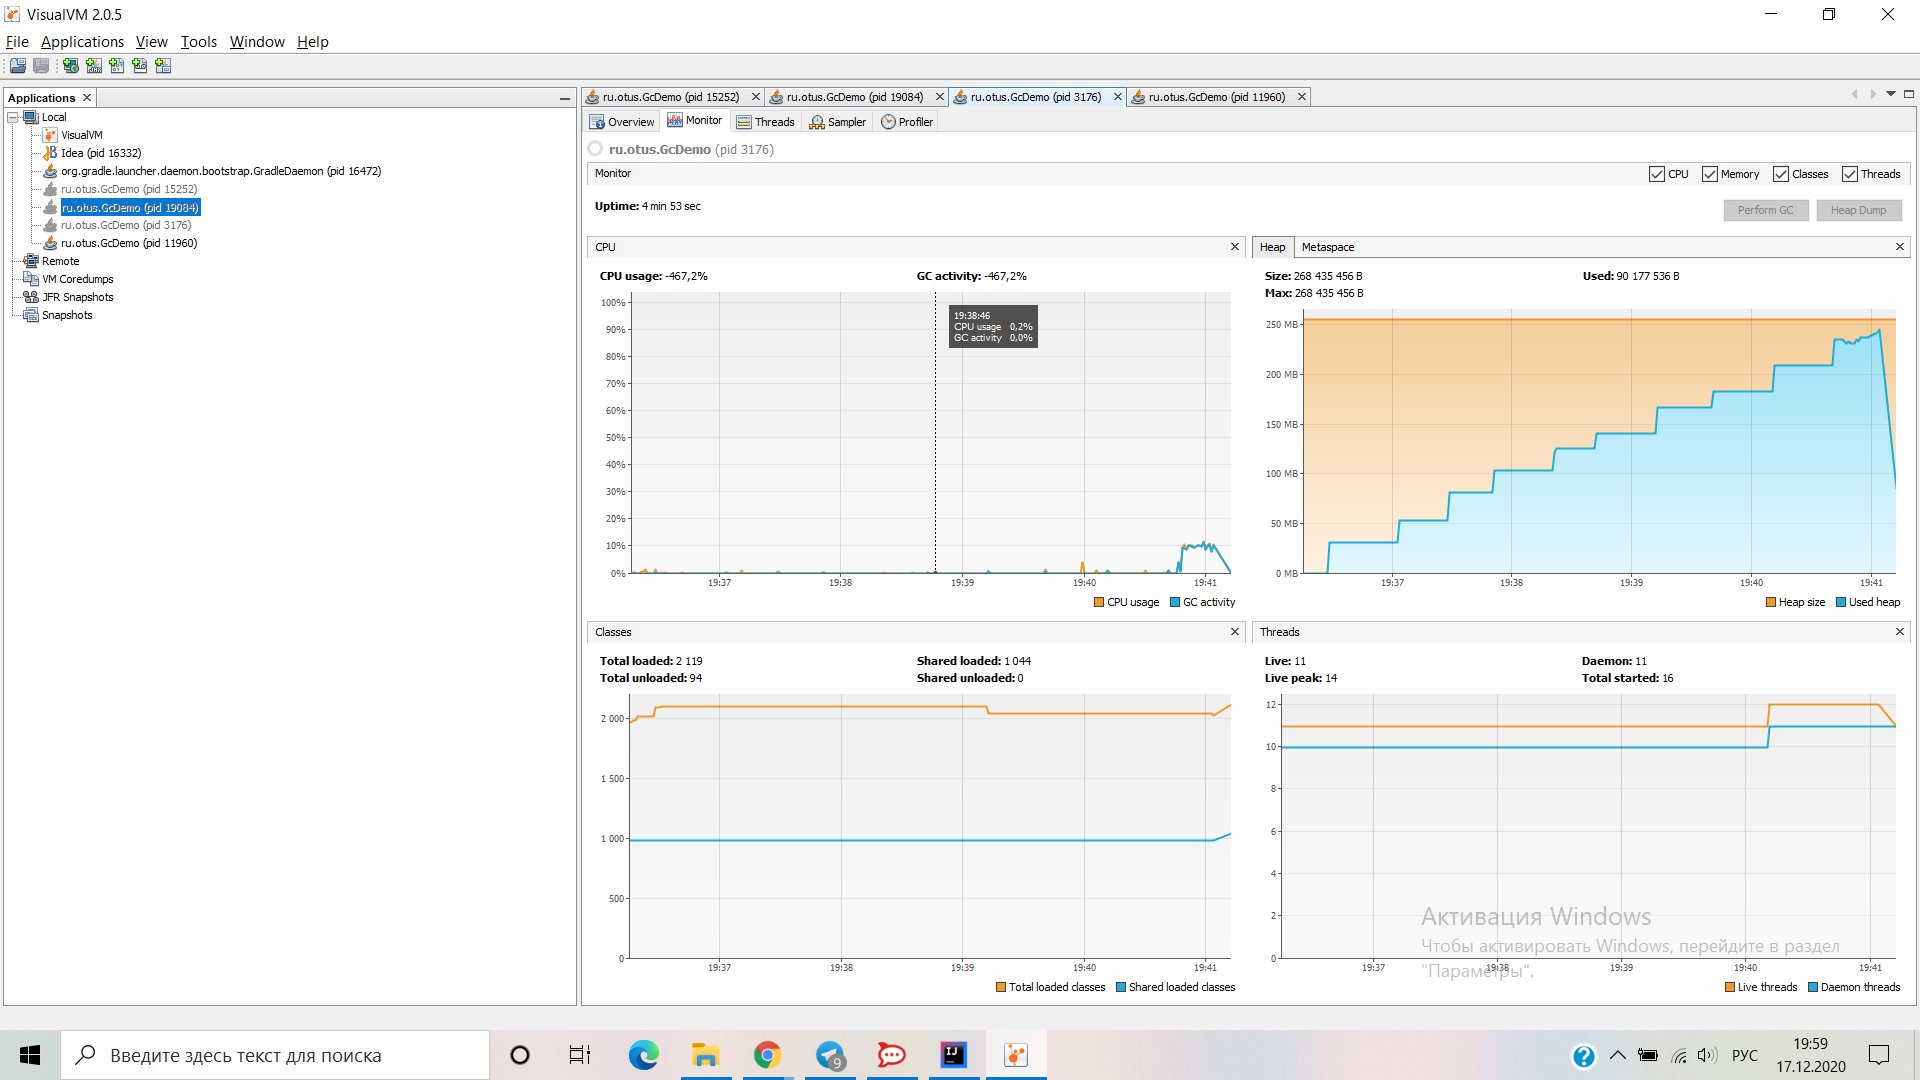
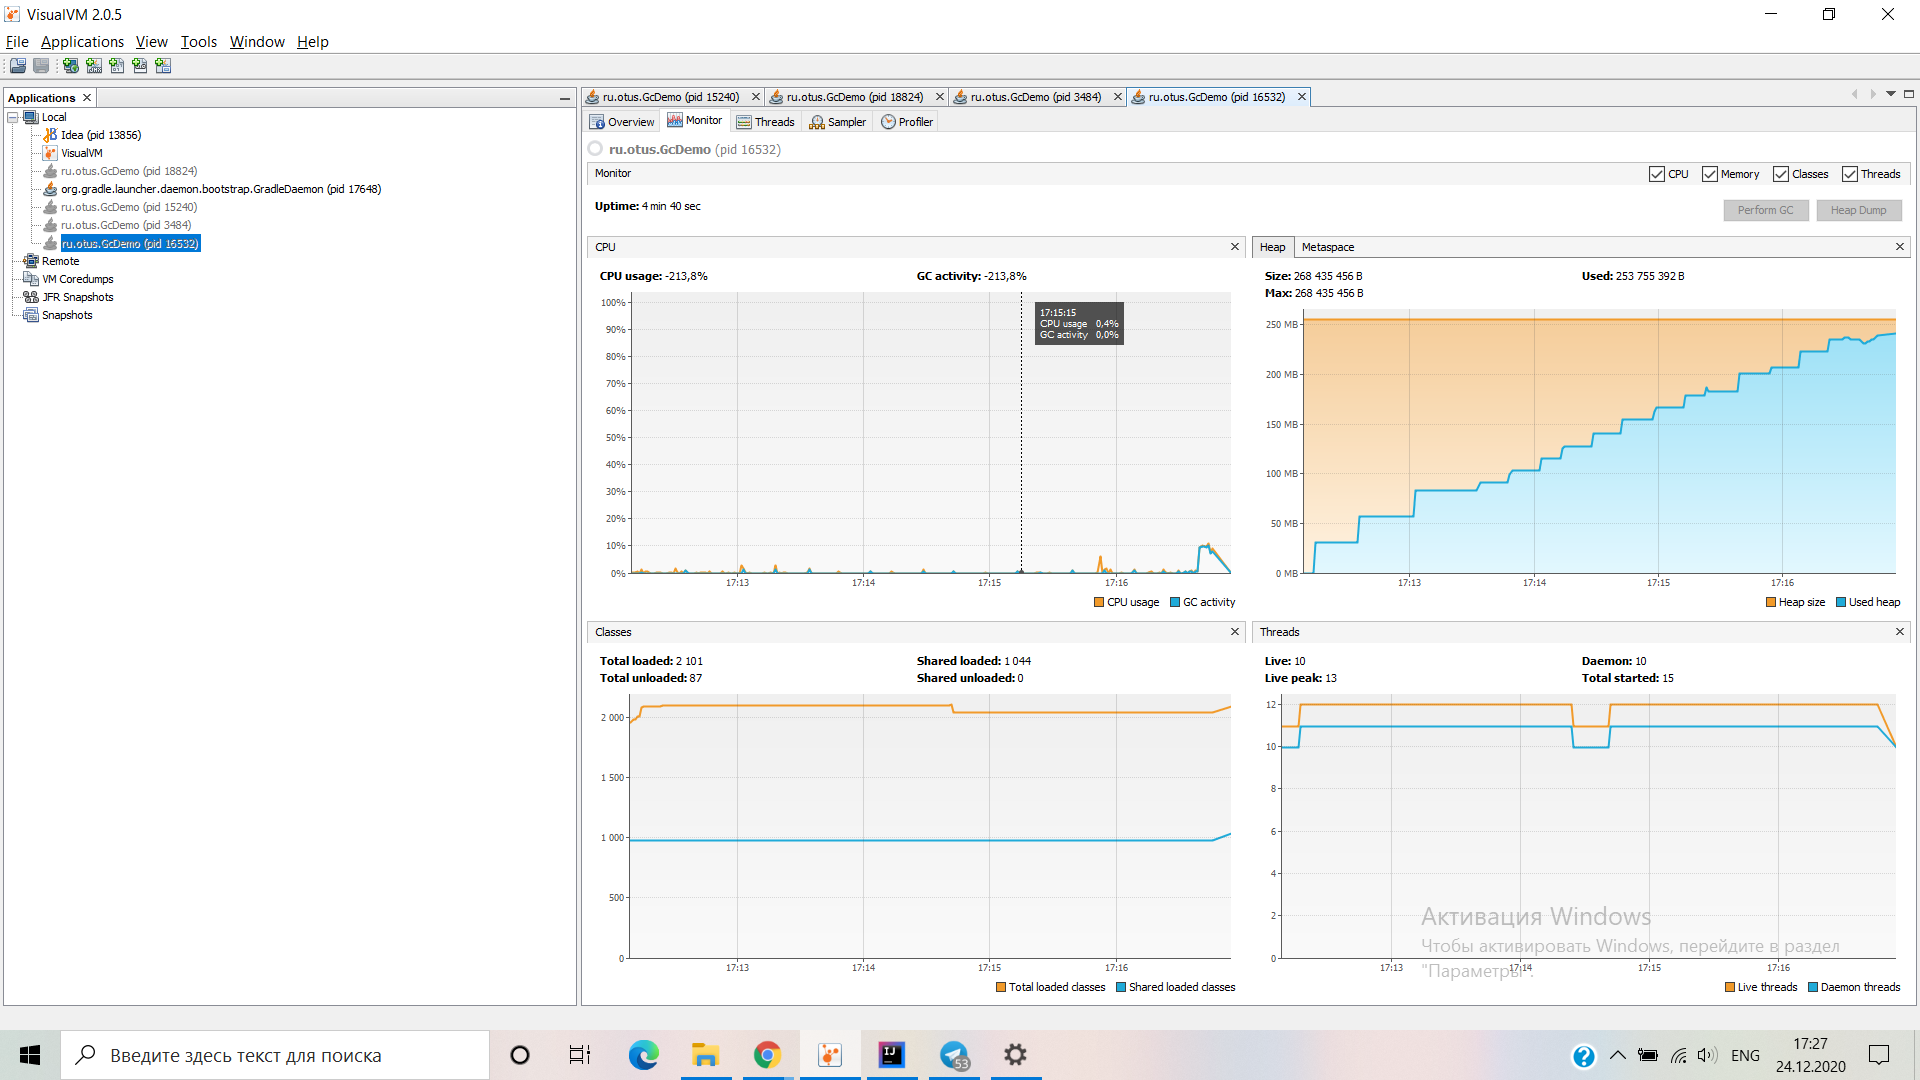
правки

diff --git a/hw-gc-04/src/main/java/ru/otus/generator/JVMErrorGenerator.java b/hw-gc-04/src/main/java/ru/otus/generator/JVMErrorGenerator.java
@@ -1,15 +1,11 @@
 package ru.otus.generator;
 
-import lombok.SneakyThrows;
-import lombok.val;
-import ru.otus.GcDemo;
 import ru.otus.repository.DIYArrayList;
 
 import java.util.List;
 import java.util.Map;
 import java.util.Random;
 import java.util.UUID;
-import java.util.logging.Logger;
 
 /**
  * JVMErrorGenerator.
@@ -42,12 +38,16 @@ public class JVMErrorGenerator {
     private static final String G1_WITH_LOW_MEMORY = "G1 with low memory";
     private static final String ZGC_WITH_LOW_MEMORY = "ZGC with low memory";
     private static final String DEFAULT_ZGC = "ZGC default";
+    private static final String PARALLEL = "PARALLEL default";
+    private static final String PARALLEL_WITH_LOW_MEMORY = "PARALLEL with low memory";
 
-    private static final Map<String, int[]> configure = Map.
-            of(DEFAULT_G1, new int[]{2450, 1},
-            G1_WITH_LOW_MEMORY, new int[]{290, 1},
-            ZGC_WITH_LOW_MEMORY, new int[]{110, 1},
-            DEFAULT_ZGC, new int[]{1000, 1});
+    private static final Map<String, Integer> configure = Map.
+            of(DEFAULT_G1, 7700,
+            G1_WITH_LOW_MEMORY, 850,
+            ZGC_WITH_LOW_MEMORY, 400,
+            DEFAULT_ZGC, 3500,
+            PARALLEL, 7000,
+            PARALLEL_WITH_LOW_MEMORY, 660);
 
     public static List<String> callSOF(long cursor) {
         List<String> strings = List.of(cursor + UUID.randomUUID().toString());
@@ -58,29 +58,44 @@ public class JVMErrorGenerator {
         return callSOF(cursor);
     }
 
-    public static List<String> callOOM() throws InterruptedException {
-        List<String[]> strings = new DIYArrayList<>();
-        int[] ints = configure.get(DEFAULT_G1);
-        for (; ; ) {
-            strings.add(new String[ints[0] + new Random().nextInt(ints[0])]);
-            Thread.sleep(ints[1]);
-        }
+    public static void throwOutOfMemoryG1() {
+        throwOOM(DEFAULT_G1);
     }
 
-    public static void GClog() {
-        Runtime runtime = Runtime.getRuntime();
+    public static void throwOutOfMemoryG1WithLowMemory() {
+        throwOOM(G1_WITH_LOW_MEMORY);
+    }
 
-        System.out.println("runtime.total = " + runtime.totalMemory());
-        System.out.println("runtime.free = " + runtime.freeMemory());
+    public static void throwOutOfMemoryZGC() {
+        throwOOM(DEFAULT_ZGC);
+    }
 
-        for (int i = 0; i < 1_000_000_0; i++) {
-            UUID uuid = UUID.randomUUID();
-            uuid = null;
+    public static void throwOutOfMemoryZGCWithLowMemory() {
+        throwOOM(ZGC_WITH_LOW_MEMORY);
+    }
+
+    public static void throwOutOfMemoryParallel() {
+        throwOOM(PARALLEL);
+    }
+
+    public static void throwOutOfMemoryParallelWithLowMemory() {
+        throwOOM(PARALLEL_WITH_LOW_MEMORY);
+    }
+
+    private static void throwOOM(String parameter) {
+        List<String[]> strings = new DIYArrayList<>();
+        int capacity = configure.get(parameter);
+        for (int i = 1; ; i++) {
+            strings.add(new String[capacity]);
+            if (i % 2 == 0) {
+                strings.remove(strings.size() - 1);
+                i = 0;
+            }
+            try {
+                Thread.sleep(1);
+            } catch (InterruptedException e) {
+                e.printStackTrace();
+            }
         }
-        callSOF(10_000_000);
-        Logger.getLogger(GcDemo.class.getName()).info("");
-
-        System.out.println("runtime.total = " + runtime.totalMemory());
-        System.out.println("runtime.free = " + runtime.freeMemory());
     }
 }

diff --git a/hw-gc-04/src/main/java/ru/otus/GcDemo.java b/hw-gc-04/src/main/java/ru/otus/GcDemo.java
@@ -1,6 +1,11 @@
 package ru.otus;
 
-import static ru.otus.generator.JVMErrorGenerator.callOOM;
+import static ru.otus.generator.JVMErrorGenerator.throwOutOfMemoryG1;
+import static ru.otus.generator.JVMErrorGenerator.throwOutOfMemoryG1WithLowMemory;
+import static ru.otus.generator.JVMErrorGenerator.throwOutOfMemoryParallel;
+import static ru.otus.generator.JVMErrorGenerator.throwOutOfMemoryParallelWithLowMemory;
+import static ru.otus.generator.JVMErrorGenerator.throwOutOfMemoryZGC;
+import static ru.otus.generator.JVMErrorGenerator.throwOutOfMemoryZGCWithLowMemory;
 
 import com.sun.management.GarbageCollectionNotificationInfo;
 
@@ -20,17 +25,24 @@ public class GcDemo {
 
     private static int oldGenerationCount;
     private static int yongGenerationCount;
+    private static long totalTimeGC;
 
-    public static void main(String[] args) throws InterruptedException {
+    public static void main(String[] args) {
         System.out.println("Starting pid: " + ManagementFactory.getRuntimeMXBean().getName());
         switchOnMonitoring();
         long beginTime = System.currentTimeMillis();
+
         try {
-            callOOM();
+//            throwOutOfMemoryG1();
+//            throwOutOfMemoryG1WithLowMemory();
+//            throwOutOfMemoryZGC();
+//            throwOutOfMemoryZGCWithLowMemory();
+            throwOutOfMemoryParallel();
+//            throwOutOfMemoryParallelWithLowMemory();
         }catch (OutOfMemoryError er){
-            System.out.printf("time: %d , count generation young - %d and old - %d%n",
+            System.out.printf("time: %d , count generation young - %d and old - %d%n and total working time - %d \n",
                     (System.currentTimeMillis() - beginTime) / 1000,
-                    yongGenerationCount, oldGenerationCount);
+                    yongGenerationCount, oldGenerationCount, totalTimeGC);
             er.printStackTrace();
         }
 
@@ -55,6 +67,8 @@ public class GcDemo {
                     long duration = info.getGcInfo().getDuration();
 
                     System.out.println("start:" + startTime + " Name:" + gcName + ", action:" + gcAction + ", gcCause:" + gcCause + "(" + duration + " ms)");
+
+                    totalTimeGC += duration;
                 }
             };
             emitter.addNotificationListener(listener, null, null);

diff --git a/hw-array-02/src/main/java/ru/otus/repository/DIYArrayList.java b/hw-array-02/src/main/java/ru/otus/repository/DIYArrayList.java
@@ -210,7 +210,7 @@ public class DIYArrayList<E> implements List<E> {
     @Override
     public E remove(int index) {
         if (index > elements.length || index < 0) {
-            throw new IndexOutOfBoundsException();
+            throw new IndexOutOfBoundsException(index);
         }
         if (size == elements.length - 1) {
             Object[] newArray = new Object[(int) (elements.length * 1.5)];

diff --git a/hw-gc-04/Сonclusions.md b/hw-gc-04/Сonclusions.md
@@ -1,20 +1,27 @@
 ## Уронить за 300 секунд
 
-name| memory  |stop the world| capacity | minor | major
-----|------------|------|---------|----|------
-G1|default - dynamically to 2GB starts from 126mb | 4-123 ms old ~400 | `DEFAULT_G1` | 22 | 4
-G1| 256MB | 2 -14 ms old ~70 | `G1_WITH_LOW_MEMORY`| 20 | 5
-ZGC| 2 GB | 186 - 812 | `DEFAULT_ZGC` |  | 35
-ZGC| 256 MB | 35  - 107| `ZGC_WITH_LOW_MEMORY`  |  | 164
+name| memory  |stop the world| capacity | minor | major | total working time GC ms
+----|------------|------|---------|----|------ | -----
+G1| 2 GB | 4-123 ms old ~400 | `DEFAULT_G1` | 41 | 12 | 4734
+G1| 256 MB | 2 -14 ms old ~55 | `G1_WITH_LOW_MEMORY`| 32 | 10 | 752
+ZGC| 2 GB | 186 - 812 | `DEFAULT_ZGC` |  | 45 | 25729
+ZGC| 256 MB | 35  - 107| `ZGC_WITH_LOW_MEMORY`  |  | 91 | 8426
+ParallelGC | 256 MB | 8 - 59 | `PARALLEL` | 6 | 25 | 1290
+ParallelGC | 2 GB |  | `PARALLEL_WITH_LOW_MEMORY` | 5 | 19 | 11308
 
 G1 идет короткими отрывками по немного в несколько этапов старое поколение создавалось только к 
 концу памяти old чистит подолгу до 400 мс.
 ZGC думаю что он не сразу сохраняет объекты в кучу, а сначала кладет 
 их отдельно пока не наберется какое-то количество и уже потом сохраняет все вместе, 
 циклы работы дольше. На малой и средней памяти G1 явно лучше, чем меньше памяти тем больше 
-рознится время и частичность остановок и эффективность сборок
+рознится время и частичность остановок и эффективность сборок. Parallel мажорных сборок
+было больше минорных, из этого можно думать что память молодого поколения на много меньше
+и сборщик подходит для приложений с долгой жизнью объектов, упал прежде чем заполнил всю 
+память
 ###График отношения заполняемости ко времени порядок табличный 
-![img_3.png](img_3.png)
+![img_4.png](img_4.png)
+![img_5.png](img_5.png)
 ![img.png](img.png)
 ![img_1.png](img_1.png)
 ![img_2.png](img_2.png)
+![img_3.png](img_3.png)
